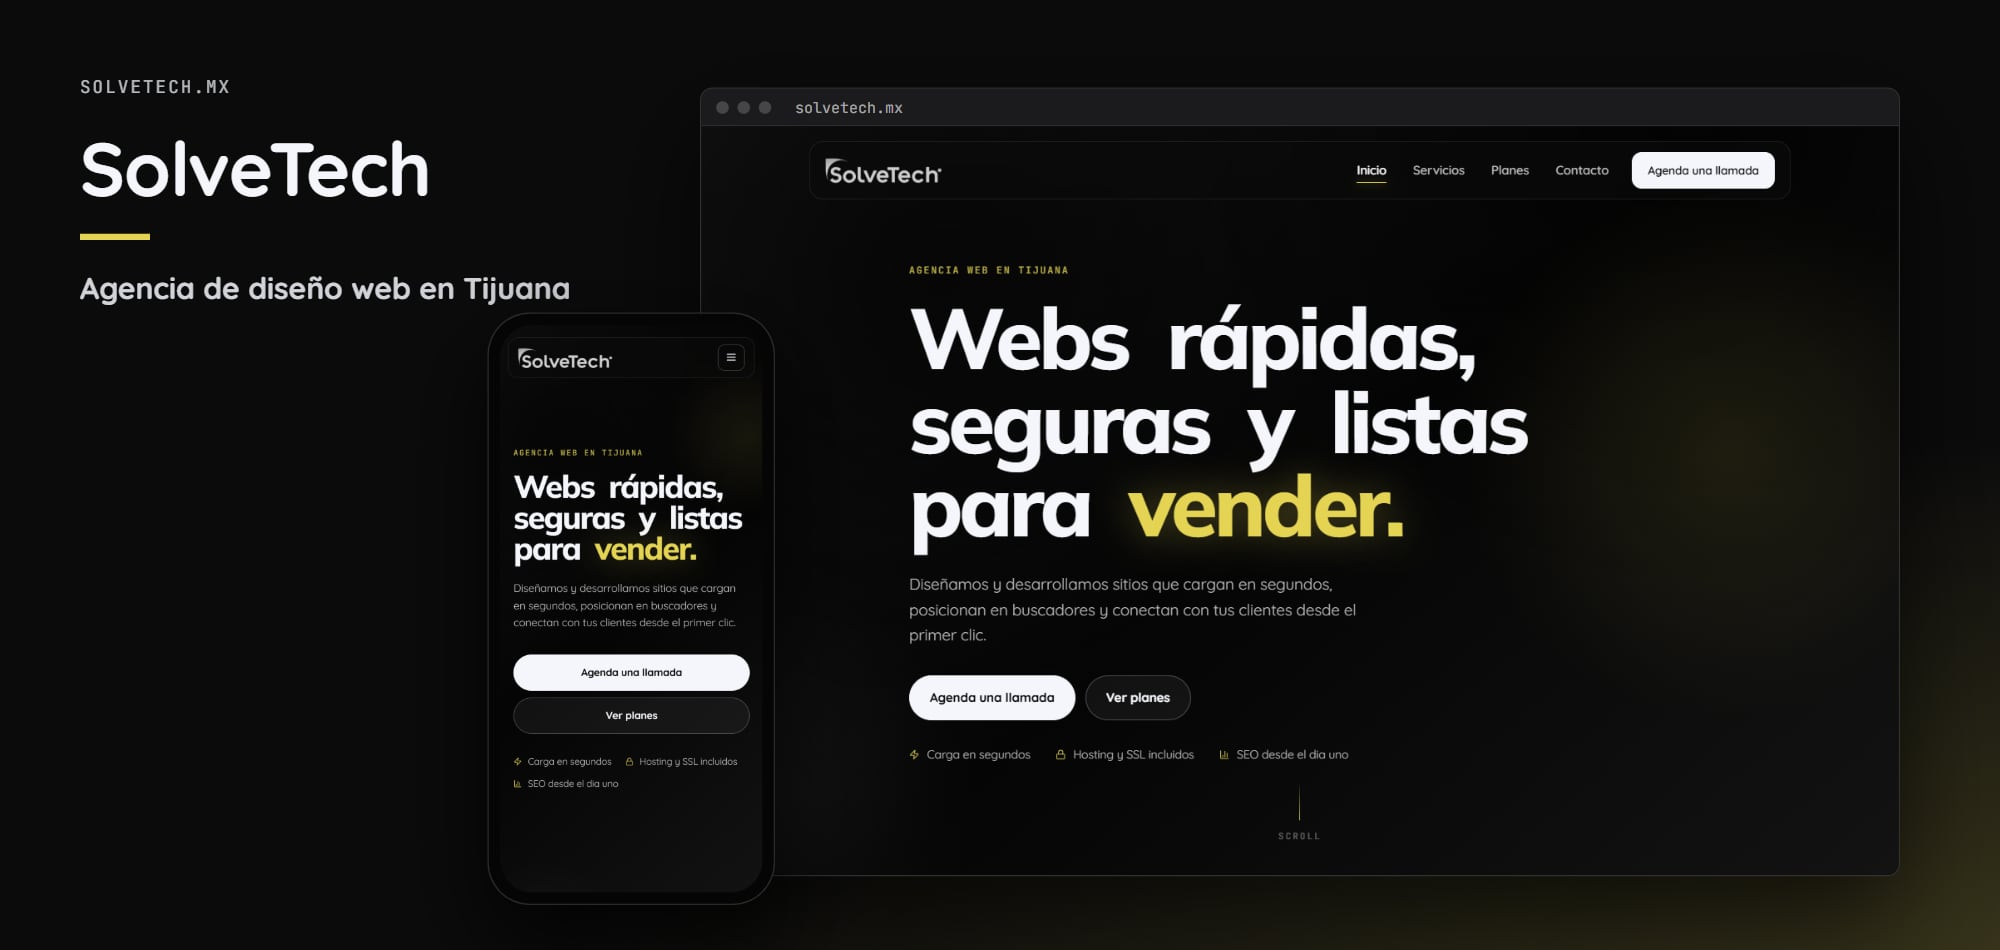
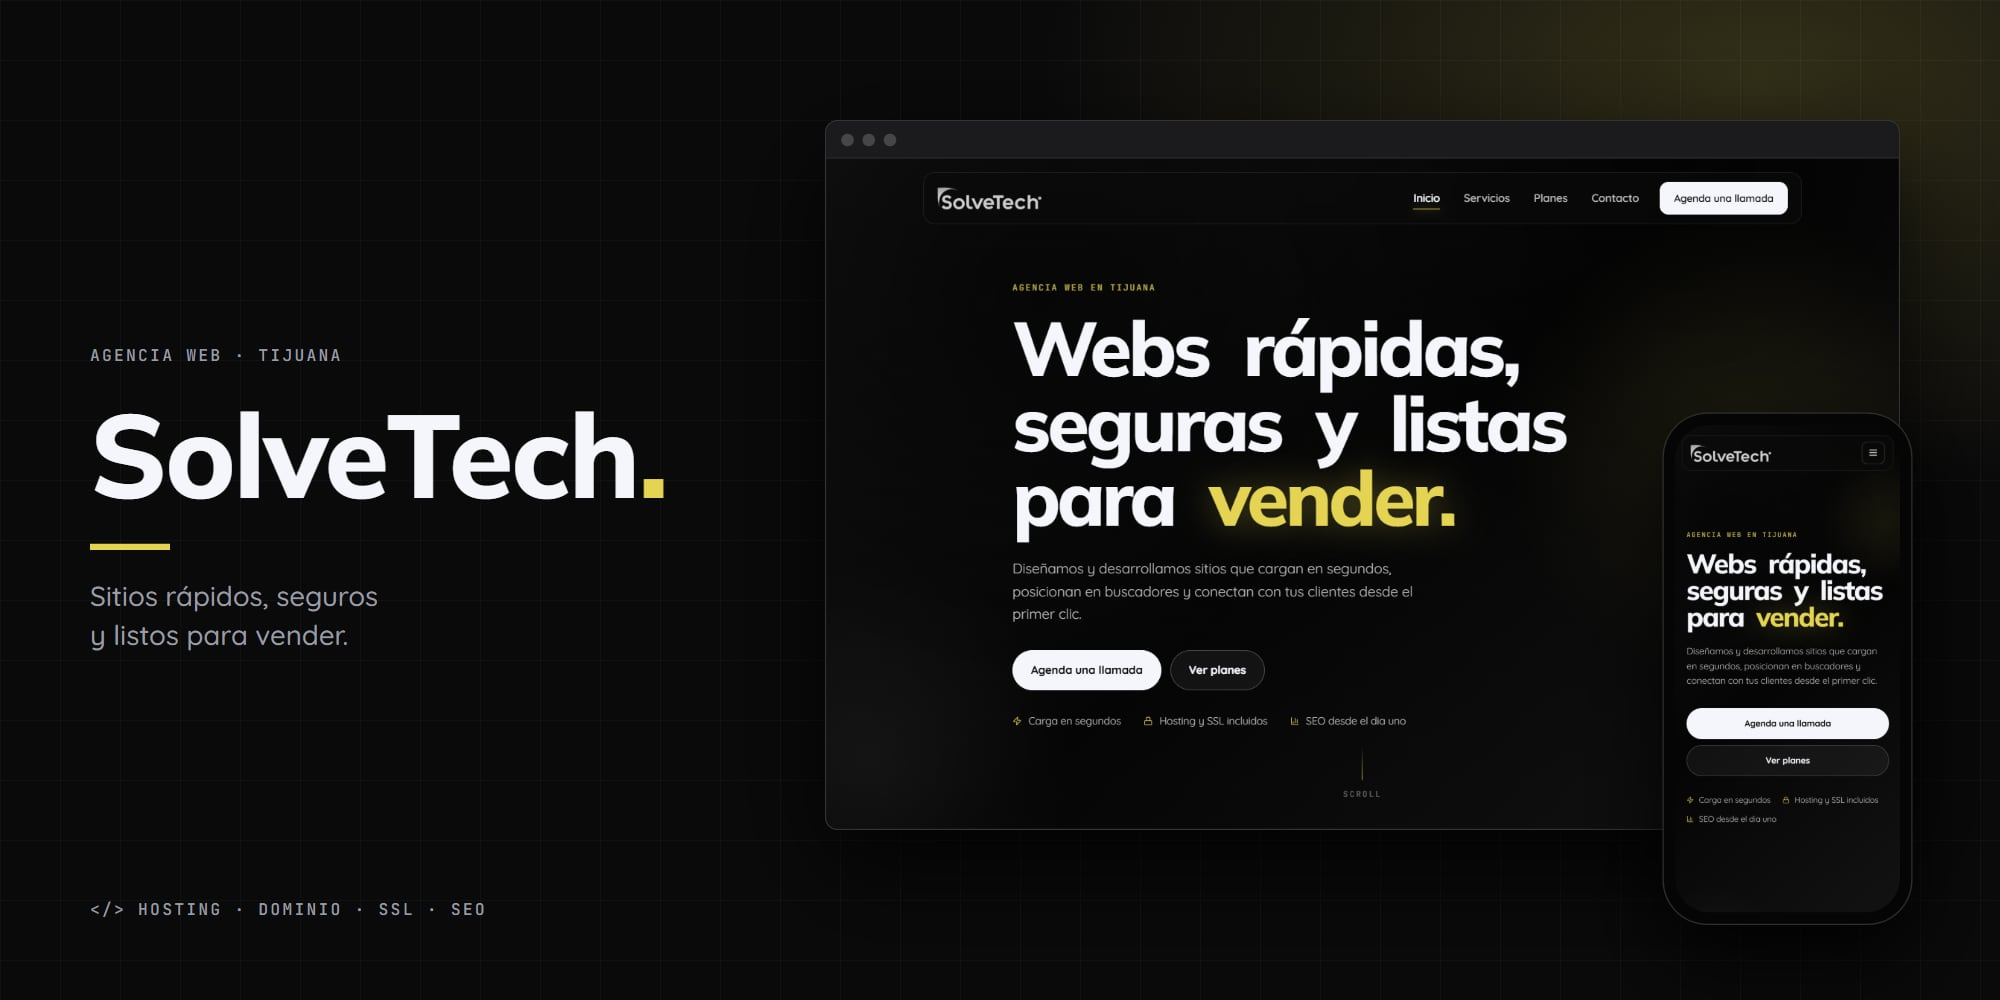
README: portadas por marca, capturas en celular y sin enlaces

diff --git a/README.md b/README.md
@@ -1,5 +1,5 @@
 <p align="center">
-  <img alt="SolveTech — Agencia de diseño web en Tijuana. Vista del sitio en computadora y celular" src="docs/img/portada.jpg" width="100%">
+  <img alt="SolveTech: Agencia de diseño web en Tijuana" src="docs/img/portada.jpg" width="100%">
 </p>
 
 <h1 align="center">SolveTech</h1>
@@ -7,7 +7,6 @@
 <p align="center"><b>Agencia de diseño web en Tijuana</b></p>
 
 <p align="center">
-  <a href="https://solvetech.mx/"><b>Ver el sitio →</b></a><br><br>
   <img alt="HTML5" src="https://img.shields.io/badge/HTML5-e34f26?style=flat-square&logo=html5&logoColor=white">
   <img alt="CSS3" src="https://img.shields.io/badge/CSS3-663399?style=flat-square&logo=css&logoColor=white">
   <img alt="JavaScript" src="https://img.shields.io/badge/JavaScript-b8a200?style=flat-square&logo=javascript&logoColor=white">
@@ -16,9 +15,9 @@
 
 ## Sobre el proyecto
 
-Sitio de una sola página de **SolveTech**, agencia de diseño web en Tijuana: presenta sus servicios, compara planes y lleva al contacto por WhatsApp.
+Sitio de una sola página de **SolveTech**, agencia de diseño web en Tijuana. Presenta los servicios de la agencia, compara sus planes (desde $2,500 MXN, con hosting, dominio, SSL y SEO incluidos) y lleva al contacto por WhatsApp.
 
-Es un sitio estático: HTML, CSS y JavaScript sin frameworks ni proceso de build.
+Es un sitio estático, hecho con HTML, CSS y JavaScript, sin frameworks ni proceso de build.
 
 ## Secciones
 
@@ -29,46 +28,41 @@ Es un sitio estático: HTML, CSS y JavaScript sin frameworks ni proceso de build
 | **Planes** | Comparativa de planes y precios |
 | **Contacto** | Agenda por WhatsApp |
 
-## Capturas
+## En computadora
 
 <p align="center">
-  <img alt="SolveTech en computadora" src="docs/img/escritorio.jpg" width="72%">
-  &nbsp;
-  <img alt="SolveTech en celular" src="docs/img/movil.jpg" width="22%">
+  <img alt="SolveTech en computadora" src="docs/img/escritorio.jpg" width="100%">
+</p>
+
+## En celular
+
+<p align="center">
+  <img alt="SolveTech en celular: tres pantallas" src="docs/img/celular.jpg" width="100%">
 </p>
 
 ## Tecnologías
 
-- HTML5, CSS3 y JavaScript, sin frameworks ni proceso de build.
-- Tipografía de Google Fonts (Quicksand, Mulish y JetBrains Mono).
+- HTML5, CSS3 y JavaScript.
 - Diseño adaptable a celular, tableta y computadora.
-- Dominio propio: **solvetech.mx**.
+- Tipografías de Google Fonts: Quicksand, Mulish y JetBrains Mono.
+- SEO técnico: `robots.txt`, `sitemap.xml` y datos estructurados.
+- Publicado en dominio propio: solvetech.mx.
 
 ## Estructura
 
 ```
 SolveTech/
-├── docs/                       # Imágenes de este README
+├── docs/                   # Imágenes de este README
 ├── Imagenes/
-├── index.html                  # Página principal
+├── index.html              # Página principal
 ├── LogoLetrasTransparenteClaro.png
 ├── LogoTransparentecClaro.ico
-├── robots.txt                  # Reglas para buscadores
-├── sitemap.xml                 # Mapa del sitio
+├── robots.txt              # Reglas para buscadores
+├── sitemap.xml             # Mapa del sitio
 ├── SolveTech-master/
-└── styles.css                  # Estilos
+└── styles.css              # Estilos
 ```
-
-## Correr en local
-
-No necesita instalar nada. Abre `index.html` en el navegador, o sírvelo desde la carpeta del repo:
-
-```bash
-python -m http.server 8000
-```
-
-y entra a <http://localhost:8000>.
 
 ## Créditos
 
-Desarrollado por [@Salereee](https://github.com/Salereee). Logotipos, fotografías y textos del negocio pertenecen a SolveTech.
+Desarrollado por Salereee. Logotipos, fotografías y textos del negocio pertenecen a SolveTech.
